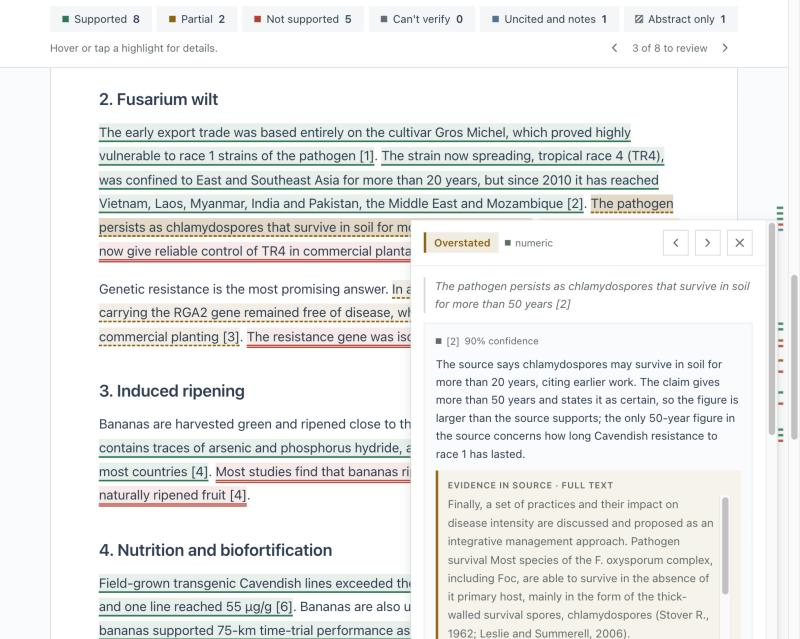
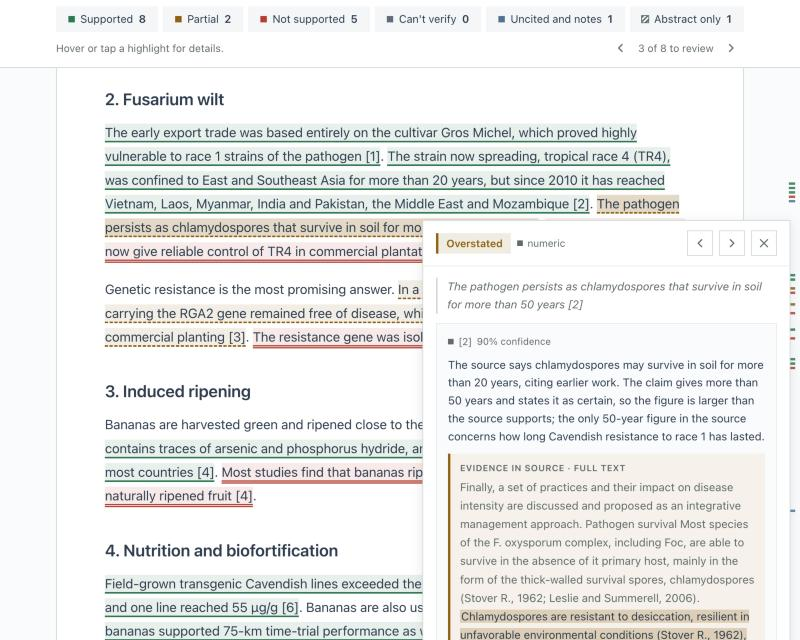
docs: retake the README screenshots and add the Suggested Edits view

diff --git a/README.md b/README.md
@@ -88,6 +88,10 @@ Click a claim for the analysis, the quoted passage and a suggested rewording:
 
 ![A claim's card: the result, the analysis and the evidence quoted from the source](docs/images/report-claim-card.jpg)
 
+Switch to Suggested Edits to see every rewording and reference fix marked in the paper, as tracked changes:
+
+![Suggested Edits: rewordings marked in the paper as tracked changes](docs/images/report-edits.jpg)
+
 The Sources tab shows where each source's text came from and lets you add the missing ones:
 
 ![The Sources tab: each reference, where its text came from and the claims that cite it](docs/images/report-sources.jpg)

diff --git a/CHANGELOG.md b/CHANGELOG.md
@@ -2,6 +2,11 @@
 
 All notable changes to Athetize will be documented in this file.
 
+## [Unreleased]
+
+### Changed
+- The README screenshots show the current report, and a new one shows the Suggested Edits view
+
 ## [0.8.3] - 2026-11-11
 
 ### Changed
